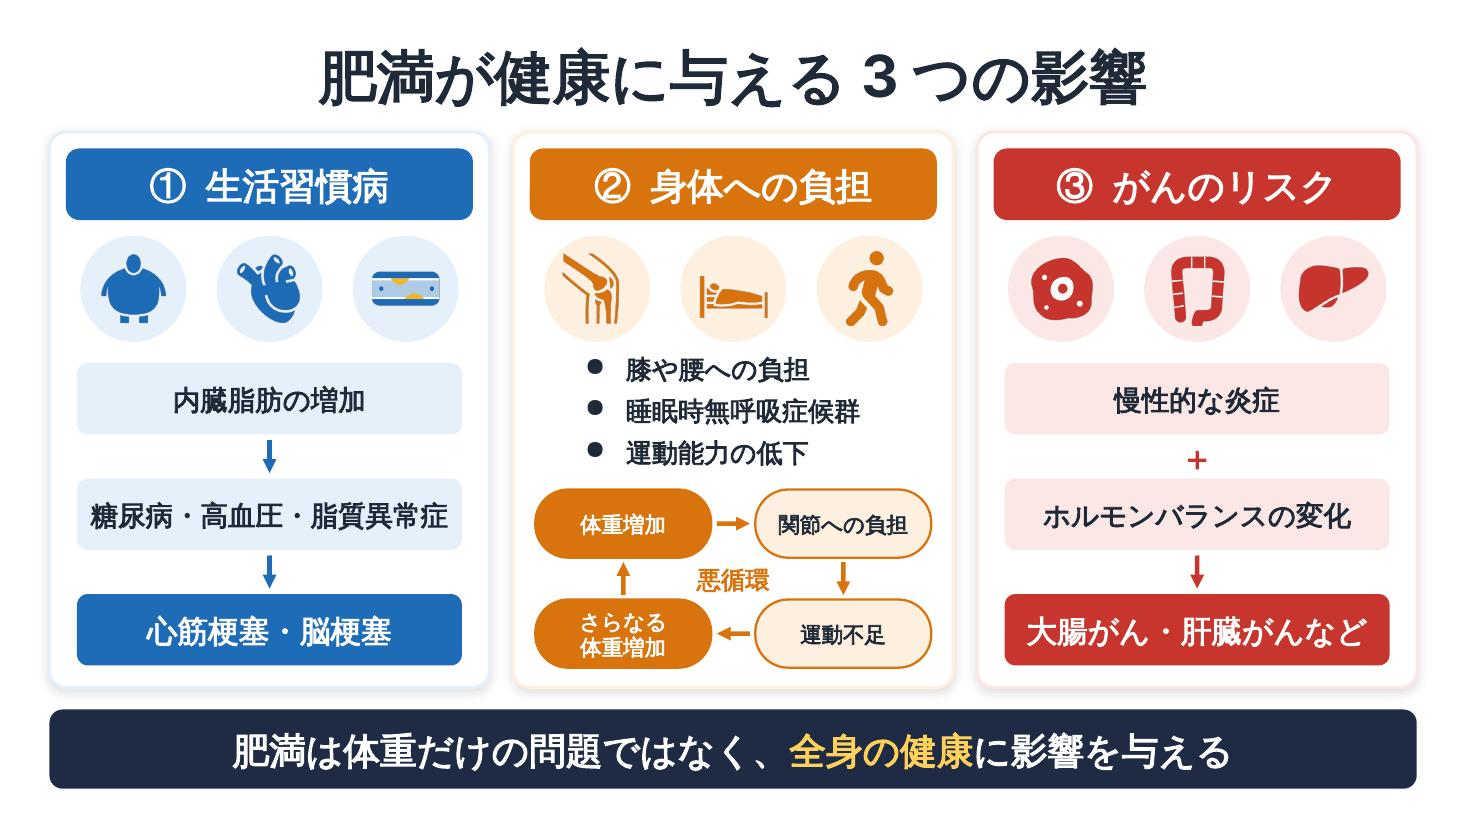
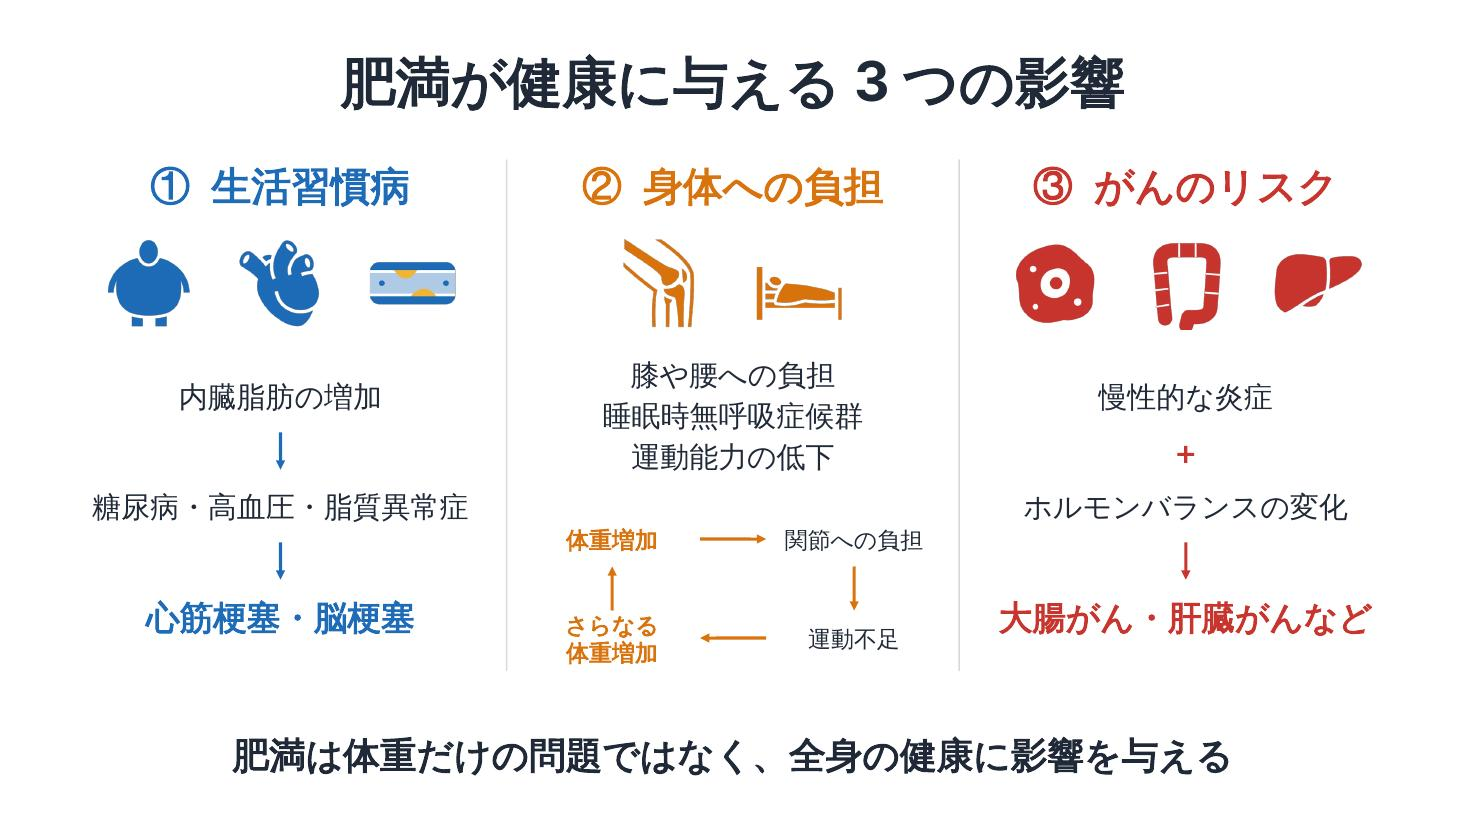
Simplify obesity slide design
Claude-Session: https://claude.ai/code/session_01MDAY6FTS2jzLXh4zDbT4b9

diff --git a/presentation/obesity_slide/build.js b/presentation/obesity_slide/build.js
@@ -14,51 +14,42 @@ const cell=c=>png(`<svg xmlns="http://www.w3.org/2000/svg" viewBox="0 0 200 200"
 const pres=new pptxgen();pres.layout='LAYOUT_WIDE';pres.title='肥満が健康に与える3つの影響';
 pres.theme={headFontFace:FONT,bodyFontFace:FONT};
 const s=pres.addSlide();s.background={color:'FFFFFF'};
-s.addText('肥満が健康に与える3つの影響',{x:0.45,y:0.3,w:12.43,h:0.75,fontFace:FONT,fontSize:38,bold:true,color:DARK,align:'center',valign:'middle',margin:0,isTextBox:true});
-
-const CW=4.0,GAP=0.2167,CY=1.2,CH=5.05;const xs=[0.45,0.45+CW+GAP,0.45+2*(CW+GAP)];
+const T=(text,o)=>s.addText(text,Object.assign({fontFace:FONT,color:DARK,margin:0,isTextBox:true,align:'center',valign:'middle'},o));
+T('肥満が健康に与える3つの影響',{x:0.5,y:0.35,w:12.33,h:0.75,fontSize:36,bold:true});
+const CW=4.1,xs=[0.5,0.5+CW+0.015,0.5+2*(CW+0.015)];
+// thin dividers
+[xs[1],xs[2]].forEach(x=>s.addShape(pres.shapes.LINE,{x:x-0.01,y:1.45,w:0,h:4.65,line:{color:'D9D9D9',width:1}}));
+const arrow=(x,y,w,h,color,o={})=>s.addShape(pres.shapes.LINE,{x,y,w,h,flipH:!!o.flipH,flipV:!!o.flipV,line:{color,width:2,endArrowType:'triangle'}});
 const cols=[
  {k:'blue',title:'① 生活習慣病',icons:[await icon(gi.GiFat,COL.blue.c),await icon(gi.GiHeartOrgan,COL.blue.c),await vessel(COL.blue.c)],alt:['内臓脂肪','心臓','血管'],
   flow:['内臓脂肪の増加','糖尿病・高血圧・脂質異常症','心筋梗塞・脳梗塞']},
- {k:'orange',title:'② 身体への負担',icons:[await icon(gi.GiKneeCap,COL.orange.c),await icon(gi.GiPersonInBed,COL.orange.c),await icon(fa6.FaPersonWalking,COL.orange.c)],alt:['膝関節','睡眠中の人','運動']},
+ {k:'orange',title:'② 身体への負担',icons:[await icon(gi.GiKneeCap,COL.orange.c),await icon(gi.GiPersonInBed,COL.orange.c)],alt:['膝関節','睡眠中の人']},
  {k:'red',title:'③ がんのリスク',icons:[await cell(COL.red.c),await colon(COL.red.c),await icon(gi.GiLiver,COL.red.c)],alt:['細胞','大腸','肝臓'],
   flow:['慢性的な炎症','ホルモンバランスの変化','大腸がん・肝臓がんなど'],plus:true},
 ];
-const arrow=(x,y,w,h,color,o={})=>s.addShape(pres.shapes.LINE,{x,y,w,h,flipH:!!o.flipH,flipV:!!o.flipV,line:{color,width:3,endArrowType:'triangle'}});
 cols.forEach((col,i)=>{
- const x=xs[i],{c,t}=COL[col.k];
- s.addShape(pres.shapes.ROUNDED_RECTANGLE,{x,y:CY,w:CW,h:CH,rectRadius:0.15,fill:{color:'FFFFFF'},line:{color:t,width:2},shadow:{type:'outer',color:'000000',opacity:0.12,blur:8,offset:2,angle:90},objectName:`card${i+1}`});
- s.addText(col.title,{x:x+0.15,y:CY+0.15,w:CW-0.3,h:0.65,shape:pres.shapes.ROUNDED_RECTANGLE,rectRadius:0.12,fill:{color:c},fontFace:FONT,fontSize:24,bold:true,color:'FFFFFF',align:'center',valign:'middle',margin:0});
- // icon row
- const D=0.95,iy=CY+0.95;const step=(CW-3*D)/4;
- col.icons.forEach((d,j)=>{const ix=x+step+j*(D+step);
-  s.addShape(pres.shapes.OVAL,{x:ix,y:iy,w:D,h:D,fill:{color:t},line:{color:t,width:0}});
-  s.addImage({data:d,x:ix+0.14,y:iy+0.14,w:D-0.28,h:D-0.28,altText:col.alt[j]});});
+ const x=xs[i],{c}=COL[col.k];const cx=x+CW/2;
+ T(col.title,{x,y:1.4,w:CW,h:0.55,fontSize:26,bold:true,color:c});
+ const D=0.85,n=col.icons.length,gap=0.35,tot=n*D+(n-1)*gap;
+ col.icons.forEach((d,j)=>s.addImage({data:d,x:cx-tot/2+j*(D+gap),y:2.15,w:D,h:D,altText:col.alt[j]}));
  if(col.flow){
-  const bx=x+0.25,bw=CW-0.5,bh=0.65;const ys=[3.3,4.35,5.4];
-  col.flow.forEach((f,j)=>{const last=j===2;
-   s.addText(f,{x:bx,y:ys[j],w:bw,h:bh,shape:pres.shapes.ROUNDED_RECTANGLE,rectRadius:0.1,fill:{color:last?c:t},fontFace:FONT,fontSize:last?20:18,bold:true,color:last?'FFFFFF':DARK,align:'center',valign:'middle',margin:0});});
-  if(col.plus){s.addText('＋',{x:x+CW/2-0.25,y:ys[0]+bh,w:0.5,h:ys[1]-ys[0]-bh,fontFace:FONT,fontSize:22,bold:true,color:c,align:'center',valign:'middle',margin:0,isTextBox:true});}
-  else arrow(x+CW/2,ys[0]+bh+0.05,0,ys[1]-ys[0]-bh-0.1,c);
-  arrow(x+CW/2,ys[1]+bh+0.05,0,ys[2]-ys[1]-bh-0.1,c);
+  const ys=[3.35,4.35,5.35],h=0.5;
+  col.flow.forEach((f,j)=>T(f,{x:x+0.1,y:ys[j],w:CW-0.2,h,fontSize:j===2?22:19,bold:j===2,color:j===2?c:DARK}));
+  if(col.plus)T('＋',{x:cx-0.25,y:ys[0]+h,w:0.5,h:0.5,fontSize:20,bold:true,color:c});
+  else arrow(cx,ys[0]+h+0.08,0,0.34,c);
+  arrow(cx,ys[1]+h+0.08,0,0.34,c);
  } else {
-  // keywords
-  const kw=['膝や腰への負担','睡眠時無呼吸症候群','運動能力の低下'];
-  s.addText(kw.map((k,j)=>({text:k,options:{bullet:{code:'25CF'},breakLine:j<2,paraSpaceAfter:7}})),{x:x+0.65,y:3.15,w:CW-0.9,h:1.15,fontFace:FONT,fontSize:17,bold:true,color:DARK,valign:'middle',margin:0,isTextBox:true});
-  // vicious cycle
-  const pw=1.6,ph=0.62,lx=x+0.2,rx=x+CW-0.2-pw,ty=4.45,by=5.45;
-  const pill=(txt,px,py,strong)=>s.addText(txt,{x:px,y:py,w:pw,h:ph,shape:pres.shapes.ROUNDED_RECTANGLE,rectRadius:0.3,fill:{color:strong?c:t},line:{color:c,width:1.5},fontFace:FONT,fontSize:14,bold:true,color:strong?'FFFFFF':DARK,align:'center',valign:'middle',margin:0});
-  pill('体重増加',lx,ty,true);pill('関節への負担',rx,ty);pill('運動不足',rx,by);pill('さらなる\n体重増加',lx,by,true);
+  T(['膝や腰への負担','睡眠時無呼吸症候群','運動能力の低下'].map((k,j)=>({text:k,options:{breakLine:j<2,paraSpaceAfter:4}})),{x:x+0.1,y:3.2,w:CW-0.2,h:1.15,fontSize:19});
+  const pw=1.5,ph=0.6,lx=cx-1.85,rx=cx+0.35,ty=4.6,by=5.5;
+  const node=(t,px,py,b)=>T(t,{x:px,y:py,w:pw,h:ph,fontSize:15,bold:b,color:b?c:DARK});
+  node('体重増加',lx,ty,true);node('関節への負担',rx,ty);node('運動不足',rx,by);node('さらなる\n体重増加',lx,by,true);
   arrow(lx+pw+0.05,ty+ph/2,rx-lx-pw-0.1,0,c);
-  arrow(rx+pw/2,ty+ph+0.04,0,by-ty-ph-0.08,c);
+  arrow(rx+pw/2,ty+ph-0.05,0,by-ty-ph+0.1,c);
   arrow(lx+pw+0.05,by+ph/2,rx-lx-pw-0.1,0,c,{flipH:true});
-  arrow(lx+pw/2,ty+ph+0.04,0,by-ty-ph-0.08,c,{flipV:true});
-  s.addText('悪循環',{x:x+CW/2-0.6,y:ty+ph,w:1.2,h:by-ty-ph,fontFace:FONT,fontSize:16,bold:true,color:c,align:'center',valign:'middle',margin:0,isTextBox:true});
+  arrow(lx+pw/2,ty+ph-0.05,0,by-ty-ph+0.1,c,{flipV:true});
  }
 });
-// summary
-s.addText([{text:'肥満は体重だけの問題ではなく、',options:{color:'FFFFFF'}},{text:'全身の健康',options:{color:'FFD15C'}},{text:'に影響を与える',options:{color:'FFFFFF'}}],
- {x:0.45,y:6.45,w:12.43,h:0.72,shape:pres.shapes.ROUNDED_RECTANGLE,rectRadius:0.12,fill:{color:'1F2A44'},fontFace:FONT,fontSize:24,bold:true,align:'center',valign:'middle',margin:0});
+T('肥満は体重だけの問題ではなく、全身の健康に影響を与える',{x:0.5,y:6.55,w:12.33,h:0.6,fontSize:24,bold:true});
 s.addNotes('肥満は①生活習慣病、②身体への負担、③がんのリスクという3つの面から全身の健康に影響します。');
 await pres.writeFile({fileName:'obesity_health_effects.pptx'});
 })();
